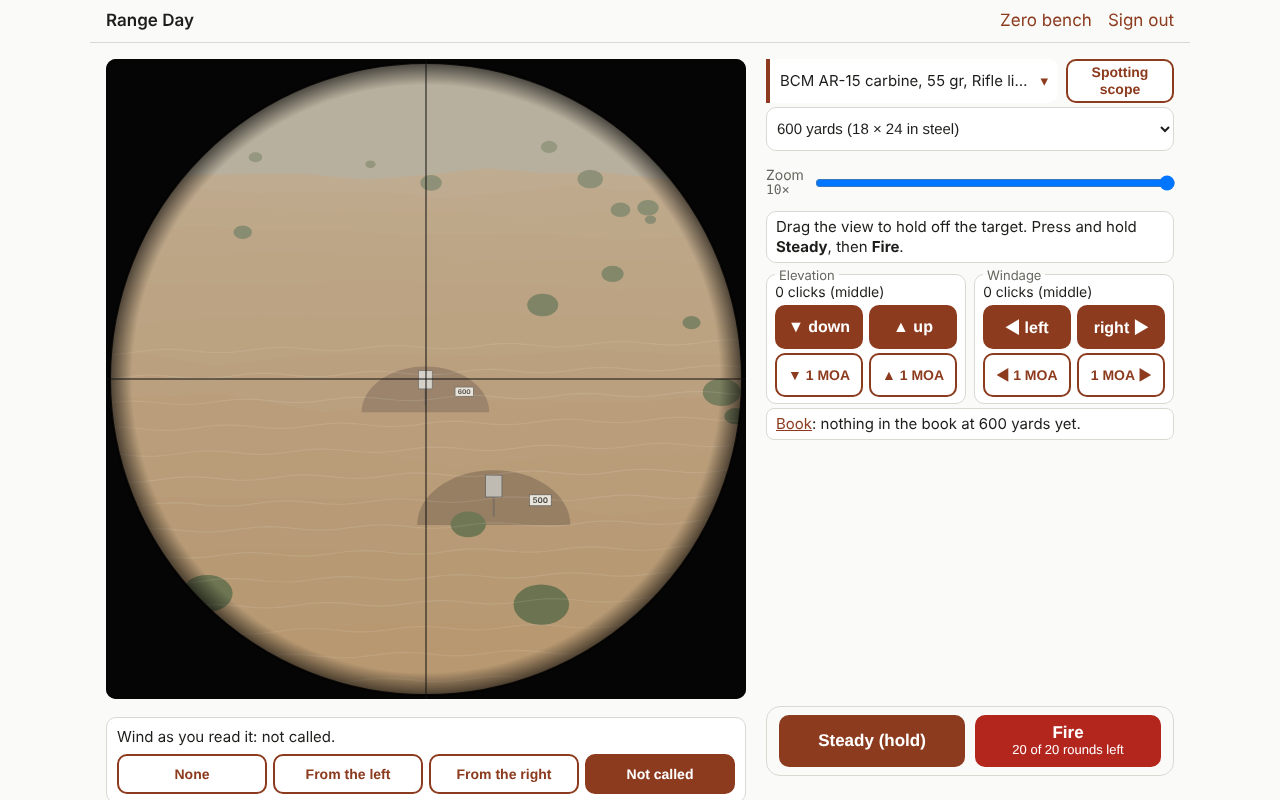
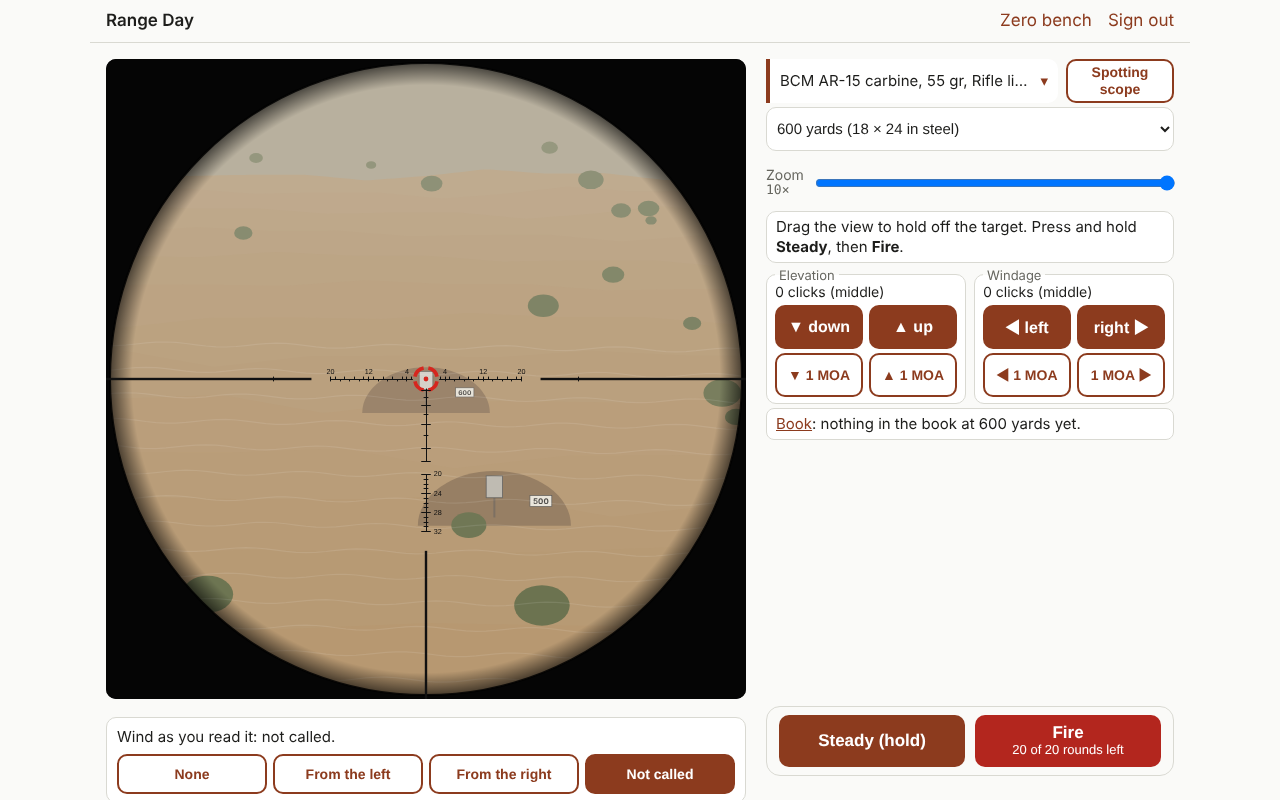
Notes: range-day-fourteen-b and -c (the green ACOG, the Vortex's marks) (#51)
* Notes for range-day-fourteen-b: the green ACOG's screenshots

Claude-Session: https://claude.ai/code/session_018WqoWKnQQ6JfqkRW4mXSmw

* Notes for range-day-fourteen-c: the Vortex's reticle screenshots retaken

Claude-Session: https://claude.ai/code/session_018WqoWKnQQ6JfqkRW4mXSmw

* Notes for range-day-fourteen-b and -c: report addendum, PLAN.md note, screenshots

Claude-Session: https://claude.ai/code/session_018WqoWKnQQ6JfqkRW4mXSmw

---------

diff --git a/docs/reports/range-day-fourteen-report.md b/docs/reports/range-day-fourteen-report.md
@@ -527,3 +527,46 @@ this app's rules order, and the phone fit was not in the brief.
 ```
 yes, merge and deploy range-day-fourteen, then merge its notes
 ```
+
+## Addendum: range-day-fourteen-b and -c, 22 to 24 Nov 2026 (the same session, on Dan's word)
+
+**What stands.**
+
+- **The green ACOG** (range-day-fourteen-b), after Dan asked during the
+  walkthrough whether Trijicon makes the chevron green ("Green Trijicon too
+  please"): pull request [#49](https://github.com/isleofdan/range-day/pull/49),
+  merged as `5b497bc` on Dan's yes, Deploy run
+  [44999222866](https://github.com/isleofdan/range-day/actions/runs/44999222866)
+  (success, 73 s). The TA31F-G joins the scope collection: Trijicon's
+  dimension sheet lists it under the TA31F's drawing, so every mark is the
+  TA31F's; its chevron, post to the 400 m line and that line are green.
+  Each reticle's lit colour is in the data (`litColor`), refused unless red
+  or green. Checks run 44996528264 green; result check PASS (job
+  `20261122-072932-ab0c15`, after two rounds: the first graded against the
+  range-day-fourteen brief instead of Dan's request; the second asked for the
+  run's final result and the zero bench's files named). Screenshot state
+  `line-acog-g-100` added (114 states).
+- **The Vortex's EBR-9 BDC MOA marks** (range-day-fourteen-c): the session's
+  download of Vortex's drawing had been refused, so Dan fetched it and sent
+  its page as a picture. Pull request
+  [#50](https://github.com/isleofdan/range-day/pull/50), merged as `f245d82`
+  on Dan's line ("yes, rerun the check, then merge and deploy
+  range-day-fourteen-c"), Deploy run
+  [45350683176](https://github.com/isleofdan/range-day/actions/runs/45350683176)
+  (success, 74 s). Every mark the sheet gives a figure for is in the data
+  (kind `bdc`): the red 1-minute dot in its red broken circle (4 and 5.5
+  across), the fine line hashed every minute and numbered at 4, 12, 20 to
+  20, posts from 24, the drop marks at 2.4 to 17.25, the ladder 20 to 32,
+  the post from 36. Not drawn, no figure on the sheet: the wind dots and the
+  ranging marks above the center. Checks run 44999515570: one flaky piece of
+  the 3D tests (the Vepr's and the Tavor's sights, untouched by this change)
+  failed and passed on its rerun, attempt 2 green; result check PASS (job
+  `20261122-080436-db8c8d`).
+- No scope in the collection shows a bare crosshair any more.
+
+**What the next session needs.** Dan's look at the green ACOG and the
+Vortex on his phone. The Vortex's wind dots and ranging marks would need
+figures Vortex's sheet does not print. The notes are on
+`ccr-8bf11ea5-zc6c5m-notes`; this addendum, the screenshots and the
+`PLAN.md` note reach `main` in a notes-only pull request after the deploy,
+as `CLAUDE.md` orders.

diff --git a/PLAN.md b/PLAN.md
@@ -739,3 +739,16 @@ Pin Checks to ubuntu-24.04 after verifying the latest successful run used 24.04 
   Shipyard chat: pistols and their targets; the .22's own scope. The
   picture work stays paused and the plate flicker set aside, on Dan's
   word. Report: `docs/reports/range-day-fourteen-report.md`.
+
+### range-day-fourteen-b and -c — 22 to 24 Nov 2026 (same session, on Dan's word)
+
+- **Stands:** the green ACOG (TA31F-G) in the scope collection, #49 merged
+  as `5b497bc` and deployed (Deploy run 44999222866); the Vortex's EBR-9 BDC
+  MOA marks from Vortex's sheet (sent by Dan as a picture), #50 merged as
+  `f245d82` and deployed (Deploy run 45350683176). Each reticle's lit colour
+  is in the data (`litColor`).
+- **Decided:** a colour variant of a scope is its own collection scope (its
+  own zero); a reticle mark with no figure on the maker's sheet is not drawn
+  (the Vortex's wind dots and ranging marks).
+- **Next session needs:** Dan's look at both on his phone. Report: the
+  addendum in `docs/reports/range-day-fourteen-report.md`.
